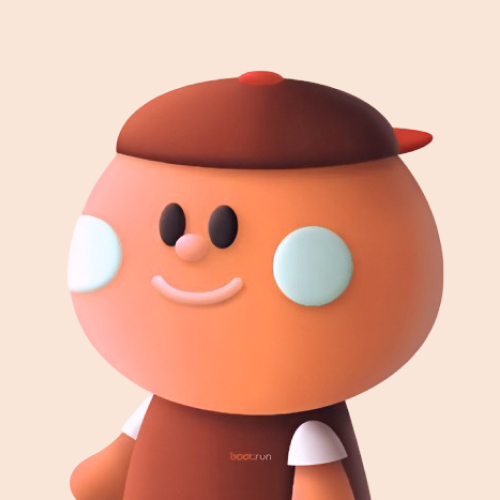
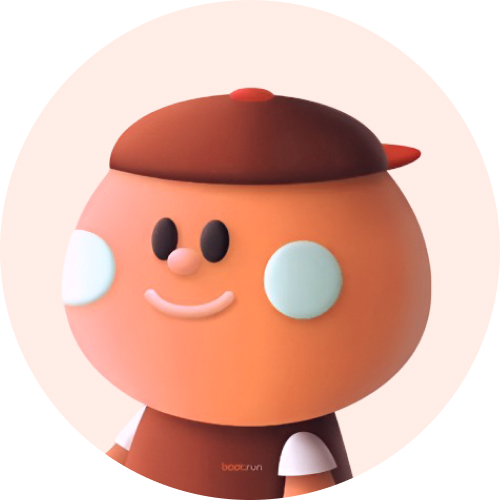
🐛  fix(fe): 기본 프로필 사진 통일 및 불필요한 파일 삭제

diff --git a/src/pages/ReviewPage.tsx b/src/pages/ReviewPage.tsx
@@ -1,7 +1,7 @@
 import styled from 'styled-components';
 import ScrollToTopButton from '../components/ScrollToTopButton';
 import SvgStar from '../assets/icons/icon-star.svg?react';
-import profileDefault from '../assets/images/profile-default.jpg';
+import { DEFAULT_INSTRUCTOR_IMAGE } from '../constants/apiConfig';
 
 const StyledPage = styled.div`
   width: 100%;
@@ -192,7 +192,7 @@ const reviews: Review[] = [
     name: '김규호',
     courseName: '프론트엔드 부트캠프',
     rating: 5,
-    profileImage: profileDefault,
+    profileImage: DEFAULT_INSTRUCTOR_IMAGE,
     reviewText:
       '실무 중심의 커리큘럼이 정말 좋았습니다. 단순히 이론만 배우는 것이 아니라 실제 프로젝트를 진행하면서 포트폴리오까지 완성할 수 있었어요. 현업 개발자 분들의 피드백도 좋았습니다.',
     beforeAfter: '비전공자에서 프론트엔드 개발자로 취업 성공!',
@@ -202,7 +202,7 @@ const reviews: Review[] = [
     name: '신가람',
     courseName: 'Spring Boot 백엔드 과정',
     rating: 5,
-    profileImage: profileDefault,
+    profileImage: DEFAULT_INSTRUCTOR_IMAGE,
     reviewText:
       'Discord를 통한 실시간 Q&A가 정말 유용했습니다. 막히는 부분이 있을 때 바로바로 질문하고 답변받을 수 있어서 학습 속도가 빨라졌어요. 커뮤니티 분위기도 너무 좋았습니다.',
     beforeAfter: '신입 개발자에서 백엔드 전문가로 성장',
@@ -212,7 +212,7 @@ const reviews: Review[] = [
     name: '장민경',
     courseName: 'Python 데이터 분석',
     rating: 4,
-    profileImage: profileDefault,
+    profileImage: DEFAULT_INSTRUCTOR_IMAGE,
     reviewText:
       '데이터 분석의 기초부터 실전까지 체계적으로 배울 수 있었습니다. 특히 실제 데이터를 활용한 프로젝트가 인상 깊었어요. 강사님의 설명도 이해하기 쉬웠습니다.',
     beforeAfter: '엑셀만 쓰던 직장인에서 데이터 분석가로',
@@ -222,7 +222,7 @@ const reviews: Review[] = [
     name: '김민주',
     courseName: '풀스택 개발 부트캠프',
     rating: 5,
-    profileImage: profileDefault,
+    profileImage: DEFAULT_INSTRUCTOR_IMAGE,
     reviewText:
       '프론트엔드부터 백엔드, 배포까지 전체 과정을 경험할 수 있어서 좋았습니다. 혼자서는 엄두도 못 냈을 프로젝트를 완성했고, 자신감을 얻었어요. 취업 지원도 체계적이었습니다.',
     beforeAfter: '6개월 만에 스타트업 풀스택 개발자 취업',
@@ -232,7 +232,7 @@ const reviews: Review[] = [
     name: '김채현',
     courseName: 'React 마스터 과정',
     rating: 5,
-    profileImage: profileDefault,
+    profileImage: DEFAULT_INSTRUCTOR_IMAGE,
     reviewText:
       'React의 기본부터 고급 패턴까지 깊이 있게 다뤄주셔서 실력이 많이 늘었습니다. 코드 리뷰를 통해 좋은 코드를 작성하는 법을 배웠고, 실무에서 바로 적용할 수 있었어요.',
     beforeAfter: 'jQuery 개발자에서 React 전문가로',
@@ -242,7 +242,7 @@ const reviews: Review[] = [
     name: '아이오',
     courseName: 'AWS 클라우드 인프라',
     rating: 4,
-    profileImage: profileDefault,
+    profileImage: DEFAULT_INSTRUCTOR_IMAGE,
     reviewText:
       'AWS의 다양한 서비스를 실습을 통해 배울 수 있었습니다. 이론뿐만 아니라 실제 운영 환경을 고려한 아키텍처 설계를 배워서 실무에 큰 도움이 되었어요.',
     beforeAfter: '서버 관리자에서 DevOps 엔지니어로 전환',

diff --git a/src/pages/MyPage/pages/ProfilePage.tsx b/src/pages/MyPage/pages/ProfilePage.tsx
@@ -1,6 +1,5 @@
 import React, { useState, useEffect, useRef } from 'react';
 import { LoadingSpinner, ErrorMessage } from '../../../components/HelperComponents';
-import SvgProfileImage from '../../../assets/images/profile-user-default.png';
 import {
   useDeleteProfileImage,
   useProfile,
@@ -26,6 +25,7 @@ import {
 } from '../styles/ProfilePage.styled';
 import Button from '../../../components/Button';
 import Profile from '../../../components/Profile';
+import { DEFAULT_INSTRUCTOR_IMAGE } from '../../../constants/apiConfig';
 
 const API_BASE_URL = import.meta.env.VITE_API_BASE_URL;
 const DEFAULT_PLACEHOLDER_URL = 'https://via.placeholder.com/150';
@@ -156,7 +156,7 @@ const ProfilePage: React.FC = () => {
                 <Profile size={14.6} src={imagePreview} alt="현재 프로필 이미지" />
               </>
             ) : (
-              <Profile size={14.6} src={SvgProfileImage} alt="기본 프로필 이미지" />
+              <Profile size={14.6} src={DEFAULT_INSTRUCTOR_IMAGE} alt="기본 프로필 이미지" />
             )}
             {imagePreview ? (
               // 1. 이미지가 있으면 (서버/로컬) -> '삭제/취소' 버튼 (X)

diff --git a/src/components/Profile.tsx b/src/components/Profile.tsx
@@ -1,6 +1,6 @@
 import styled from 'styled-components';
-import userProfileDefault from '../assets/images/profile-default.jpg';
 import { getFullImageUrl } from '../utils/imageUtils';
+import { DEFAULT_INSTRUCTOR_IMAGE } from '../constants/apiConfig';
 
 type ProfileProps = {
   src?: string;
@@ -38,7 +38,7 @@ export default function Profile({
   return (
     <>
       <StyledProfileImg
-        src={imageSrc || userProfileDefault}
+        src={imageSrc || DEFAULT_INSTRUCTOR_IMAGE}
         $size={size}
         alt={alt}
         $isActive={isActive}
